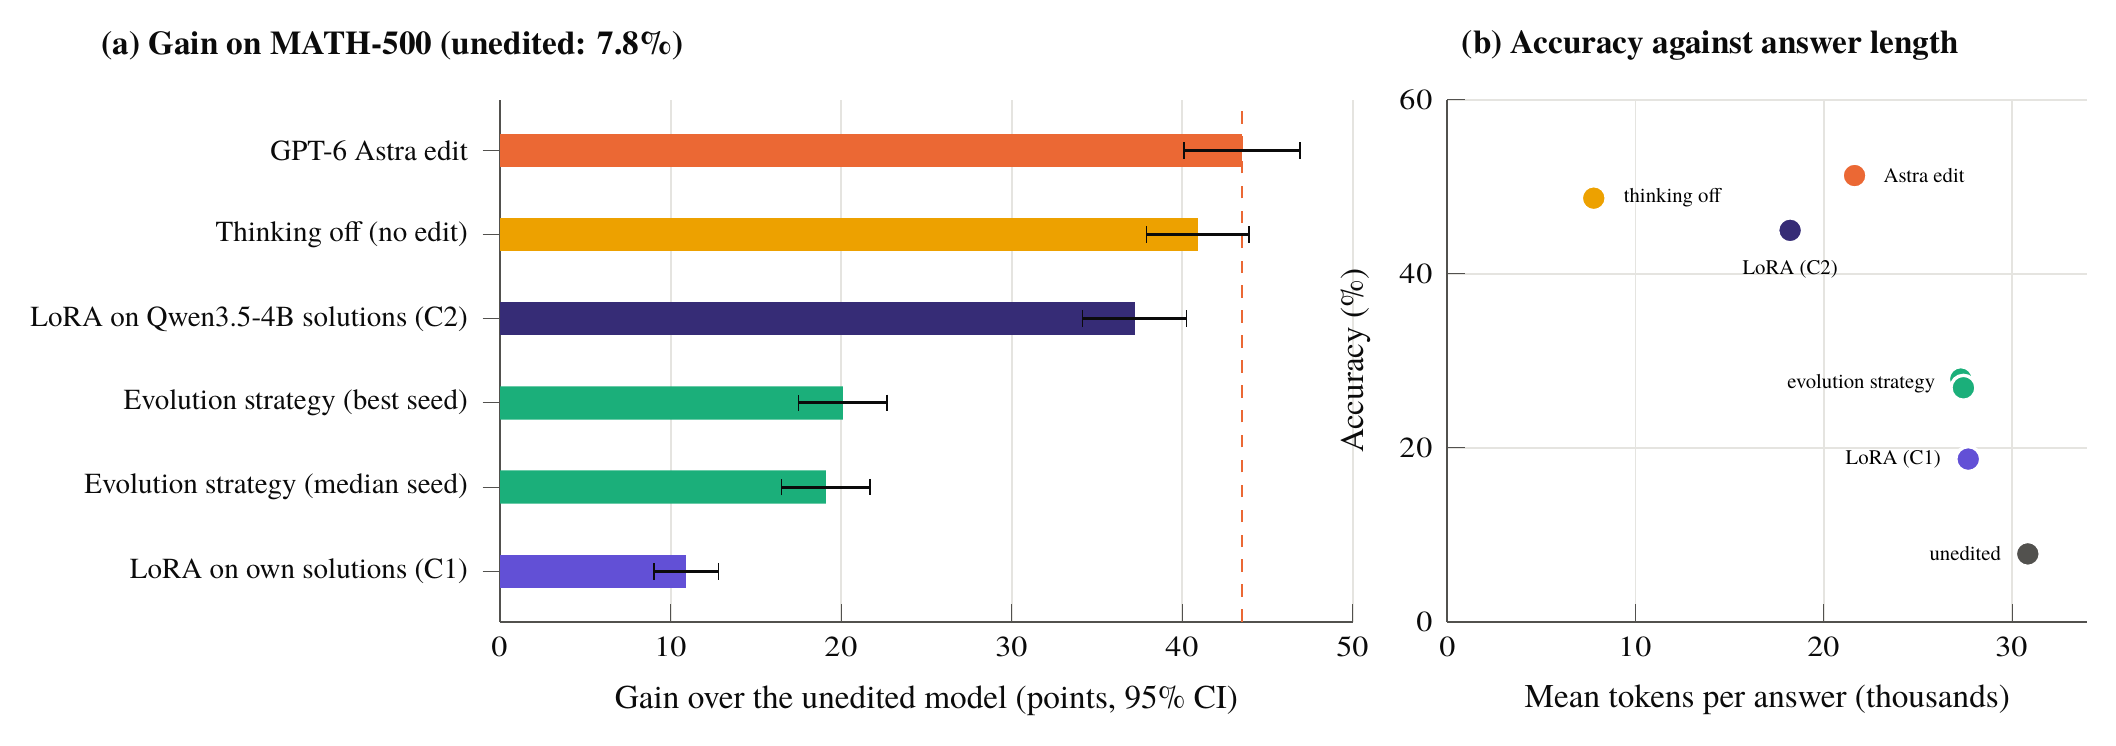
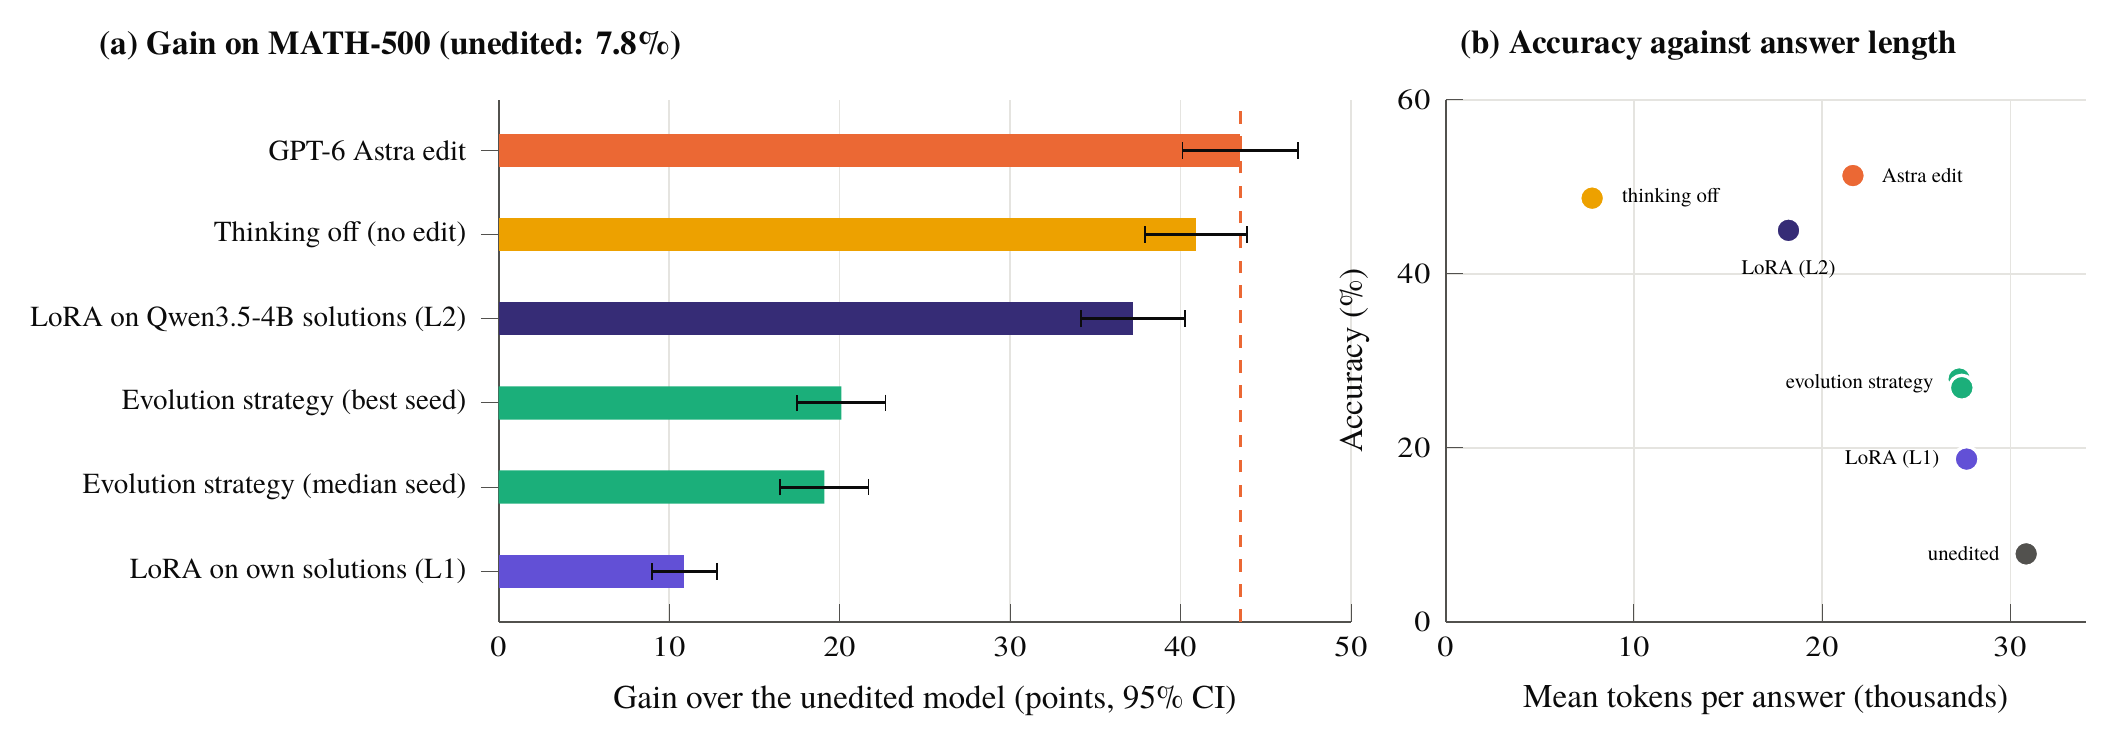
Final pre-arXiv fixes: first-posting dates, verified study descriptions, size/cost counts, figures
Claude-Session: https://claude.ai/code/session_01VwPV3Ri5Xa9jvLsmYtsNdk

diff --git a/figures/src/fig_evidence.tex b/figures/src/fig_evidence.tex
@@ -2,14 +2,14 @@
 \begin{tikzpicture}
 \begin{axis}[wspaxis,width=15.2cm,height=7.0cm,xbar,bar width=7pt,bar shift=0pt,xmin=0,xmax=108,ymin=0.4,ymax=13.6,
   xtick={0,25,50,75,100},xticklabel={\pgfmathprintnumber{\tick}\%},xmajorgrids,
-  ytick={1,...,13},yticklabels={Peer reviewed,Third-party pre-registration,Pre-specified (own record or part),\textbf{Inference-only fix tested},Fine-tuning comparison,Code or data released (link),Random or null control,Cost reported (money or time),Full test set,More than one session or seed,Any non-LLM comparator,Target size stated,Held-out evaluation},
+  ytick={1,...,13},yticklabels={Peer reviewed,Third-party pre-registration,Pre-specified (own record or part),\textbf{Inference-only fix tested},Cost reported (money or time),Fine-tuning comparison,Code or data released (link),Random or null control,Full test set,More than one session or seed,Any non-LLM comparator,Target size stated,Held-out evaluation},
   y tick label style={font=\scriptsize,text=cInk},xlabel={Share of the 54 primary studies},
   nodes near coords={\pgfplotspointmeta},point meta=explicit symbolic,
   every node near coord/.append style={font=\scriptsize,text=cInk,anchor=west,xshift=2pt},clip=false]
 \fill[cYellow!20] (axis cs:0,3.52) rectangle (axis cs:100,4.48);
 \addplot[fill=cBlue,draw=none] coordinates {
- (0,1)[0/54] (0,2)[0/54] (24.1,3)[13/54] (51.9,5)[28/54\enspace C9] (51.9,6)[28/54\enspace C12]
- (57.4,7)[31/54\enspace C6] (61.1,8)[33/54\enspace C11] (66.7,9)[36/54\enspace C10] (75.9,10)[41/54\enspace C5]
+ (0,1)[0/54] (0,2)[0/54] (24.1,3)[13/54] (50.0,5)[27/54\enspace C11] (51.9,6)[28/54\enspace C9] (51.9,7)[28/54\enspace C12]
+ (57.4,8)[31/54\enspace C6] (66.7,9)[36/54\enspace C10] (75.9,10)[41/54\enspace C5]
  (79.6,11)[43/54\enspace C7] (81.5,12)[44/54\enspace C3] (92.6,13)[50/54\enspace C10]};
 \addplot[fill=cOrange,draw=none] coordinates {(24.1,4)[\textbf{13/54}\enspace\textbf{C8}: the missing control]};
 \end{axis}

diff --git a/figures/src/fig_case.tex b/figures/src/fig_case.tex
@@ -1,7 +1,7 @@
 % Fig. 6: Qwen3.5-0.8B MATH-500 case study, full set (500 x 4). (a) gain vs unedited with 95% CI; (b) accuracy vs tokens.
 \begin{tikzpicture}
 \begin{axis}[wspaxis,name=g,width=8.8cm,height=6.0cm,xbar,bar width=8pt,bar shift=0pt,xmin=0,xmax=50,ymin=0.4,ymax=6.6,
-  ytick={1,...,6},yticklabels={LoRA on own solutions (C1),Evolution strategy (median seed),Evolution strategy (best seed),LoRA on Qwen3.5-4B solutions (C2),Thinking off (no edit),GPT-6 Astra edit},
+  ytick={1,...,6},yticklabels={LoRA on own solutions (L1),Evolution strategy (median seed),Evolution strategy (best seed),LoRA on Qwen3.5-4B solutions (L2),Thinking off (no edit),GPT-6 Astra edit},
   y tick label style={font=\scriptsize},xmajorgrids,xlabel={Gain over the unedited model (points, 95\% CI)},
   title={(a) Gain on MATH-500 (unedited: 7.8\%)},title style={at={(0,1)},anchor=south west,xshift=-3.5cm},
   error bars/x dir=both,error bars/x explicit,error bars/error bar style={line width=0.7pt,cInk},error bars/error mark options={rotate=90,mark size=2pt,cInk}]
@@ -22,10 +22,10 @@
 \addplot[only marks,mark=*,mark size=3pt,draw=white,line width=0.8pt,fill=cYellow] coordinates {(7.782,48.7)};
 \addplot[only marks,mark=*,mark size=3pt,draw=white,line width=0.8pt,fill=cOrange] coordinates {(21.638,51.3)};
 \node[font=\tiny,anchor=east] at (axis cs:30.2,7.8) {unedited};
-\node[font=\tiny,anchor=east] at (axis cs:27.0,18.7) {LoRA (C1)};
+\node[font=\tiny,anchor=east] at (axis cs:27.0,18.7) {LoRA (L1)};
 \node[font=\tiny,anchor=east] at (axis cs:26.7,27.4) {evolution strategy};
 \node[font=\tiny,anchor=west] at (axis cs:8.6,48.7) {thinking off};
-\node[font=\tiny,anchor=north] at (axis cs:18.214,43.2) {LoRA (C2)};
+\node[font=\tiny,anchor=north] at (axis cs:18.214,43.2) {LoRA (L2)};
 \node[font=\tiny,anchor=west] at (axis cs:22.4,51.3) {Astra edit};
 \end{axis}
 \end{tikzpicture}

diff --git a/figures/src/fig_search.tex b/figures/src/fig_search.tex
@@ -21,8 +21,8 @@
   xtick={2,4,...,20},ytick={0,2,...,8},ymajorgrids,xlabel={November 2026},ylabel={Studies},
   legend style={at={(0.5,1.02)},anchor=south,legend columns=2,cells={anchor=west},column sep=6pt},
   every axis plot/.append style={draw=white,line width=0.4pt},anchor=north west,at={(0.6cm,-0.75cm)}]
-\addplot[fill=cBlue] coordinates {(2,0)(3,1)(4,1)(5,5)(6,6)(7,4)(8,3)(9,2)(10,1)(11,1)(12,4)(13,6)(14,0)(15,1)(16,6)(17,3)(18,3)(19,4)(20,5)(21,1)};
-\addplot[fill=cOrange] coordinates {(2,0)(3,3)(4,1)(5,1)(6,0)(7,0)(8,0)(9,2)(10,1)(11,0)(12,0)(13,0)(14,0)(15,1)(16,1)(17,0)(18,0)(19,2)(20,0)(21,1)};
+\addplot[fill=cBlue] coordinates {(2,0)(3,1)(4,1)(5,6)(6,4)(7,4)(8,3)(9,2)(10,1)(11,1)(12,4)(13,5)(14,1)(15,1)(16,6)(17,4)(18,3)(19,5)(20,4)(21,1)};
+\addplot[fill=cOrange] coordinates {(2,0)(3,2)(4,2)(5,1)(6,0)(7,0)(8,1)(9,2)(10,1)(11,0)(12,0)(13,1)(14,0)(15,1)(16,1)(17,0)(18,0)(19,0)(20,1)(21,0)};
 \legend{Group A: LLM editor (57),Group B: no LLM editor (13)}
 \draw[cMuted,dashed,line width=0.6pt] (axis cs:2,0) -- (axis cs:2,8.2) node[above right,font=\tiny,text=cMuted,xshift=-3pt]{MIT post, 2 Nov};
 \draw[cMuted,decorate,decoration={brace,amplitude=3pt}] (axis cs:18.6,7.8) -- (axis cs:21.4,7.8) node[midway,above=2pt,font=\tiny,text=cMuted,align=center]{indexing lag};

diff --git a/figures/src/fig_org.tex b/figures/src/fig_org.tex
@@ -17,5 +17,5 @@
    {\raggedright\hyphenpenalty=10000\setlength{\parskip}{2.4pt}\foreach \it in \s {\hangindent=2.6mm\hangafter=1\noindent\textcolor{\c}{\tiny$\blacktriangleright$}\hspace{0.9mm}\it\par}};
 }
 \foreach \i [evaluate=\i as \j using int(\i+1)] in {0,...,4} \draw[->,line width=0.8pt,draw=cMuted] (h\i.east) -- (h\j.west);
-\node[anchor=north west,font=\scriptsize,text=cMuted] at (0,-0.75-\hh-0.08-\bh-0.12) {Appendix A: case-study details and protocol amendments. \quad Appendix B: evidence table of the 54 primary studies. \quad Appendix C: index of all 70 studies.};
+\node[anchor=north west,font=\scriptsize,text=cMuted] at (0,-0.75-\hh-0.08-\bh-0.12) {Appendix A: case-study details and protocol amendments. \quad Appendix B: evidence table of the 54 primary studies and index of all 70 studies.};
 \end{tikzpicture}

diff --git a/figures/src/fig_size.tex b/figures/src/fig_size.tex
@@ -4,8 +4,8 @@
   xtick={1,...,5},xticklabels={${<}$1k,1k--1M,1M--100M,100M--1B,${\geq}$1B},x tick label style={font=\scriptsize},
   ymajorgrids,ytick={0,5,10,15},ylabel={Studies},xlabel={Parameters of the largest target network},
   legend style={at={(0.02,0.98)},anchor=north west,cells={anchor=west}},every axis plot/.append style={draw=white,line width=0.5pt}]
-\addplot[fill=cViolet] coordinates {(1,4)(2,8)(3,6)(4,1)(5,1)};
-\addplot[fill=cOrange] coordinates {(1,0)(2,1)(3,0)(4,12)(5,11)};
-\legend{non-LLM target (20),LLM target (24)}
+\addplot[fill=cViolet] coordinates {(1,4)(2,9)(3,6)(4,1)(5,1)};
+\addplot[fill=cOrange] coordinates {(1,0)(2,0)(3,0)(4,12)(5,11)};
+\legend{non-LLM target (21),LLM target (23)}
 \end{axis}
 \end{tikzpicture}
